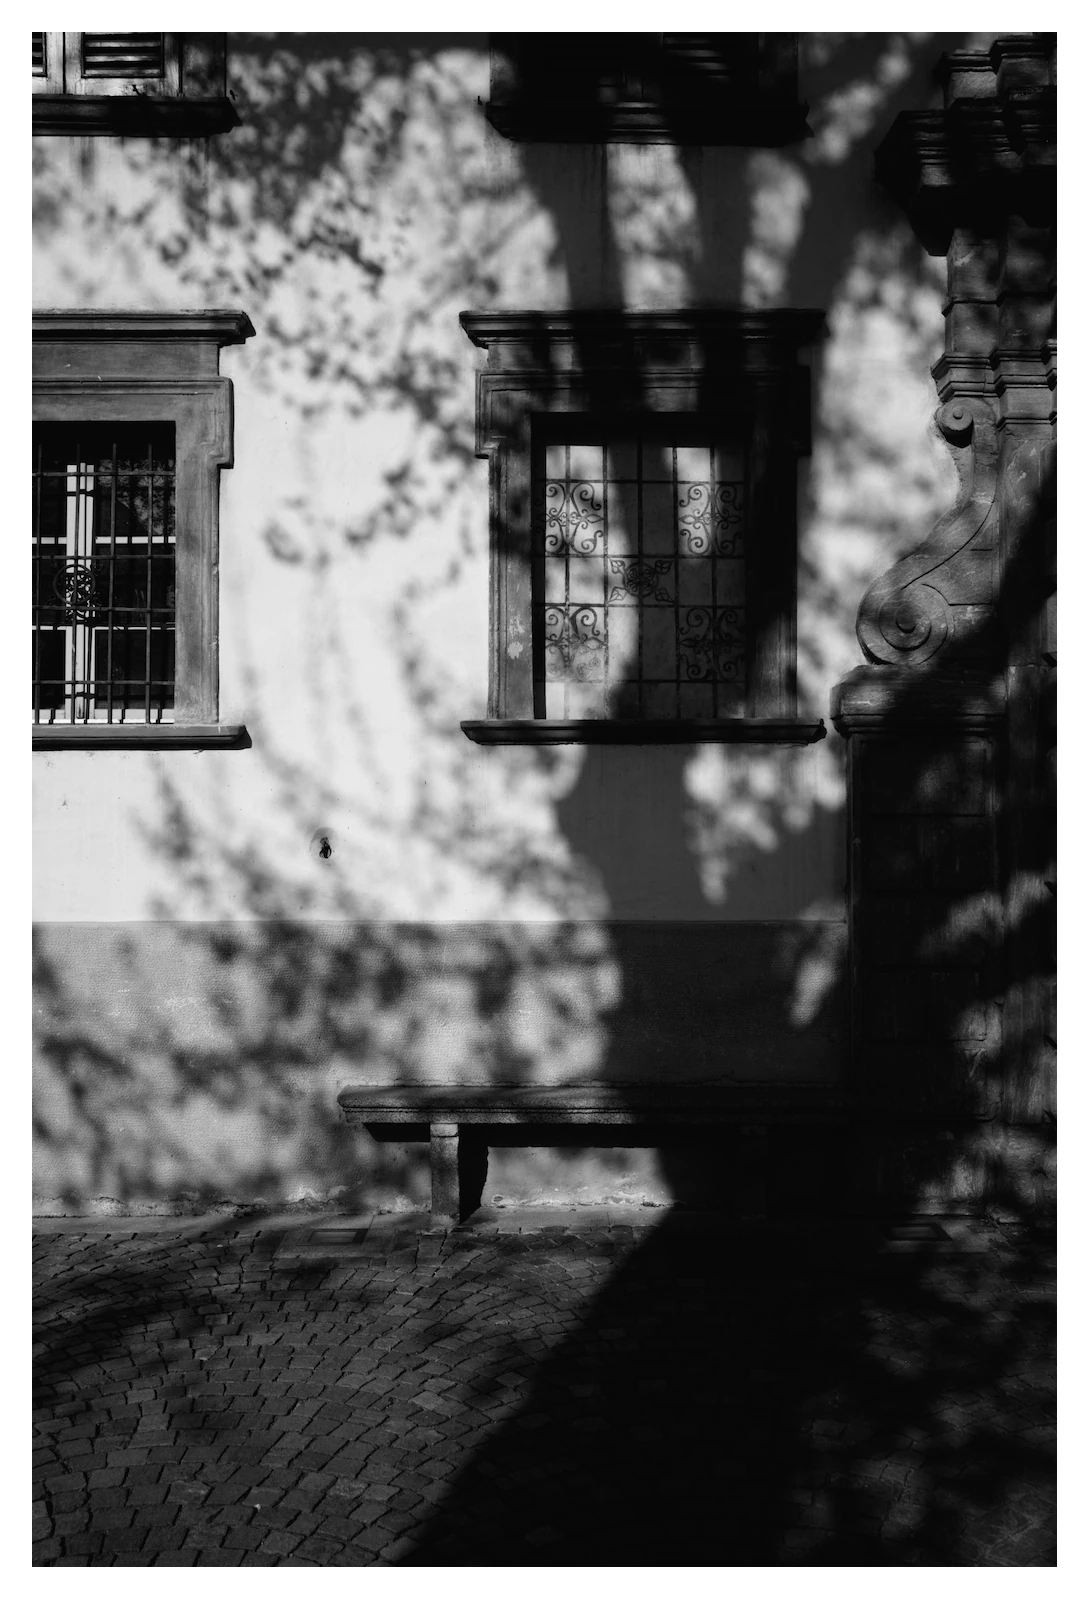
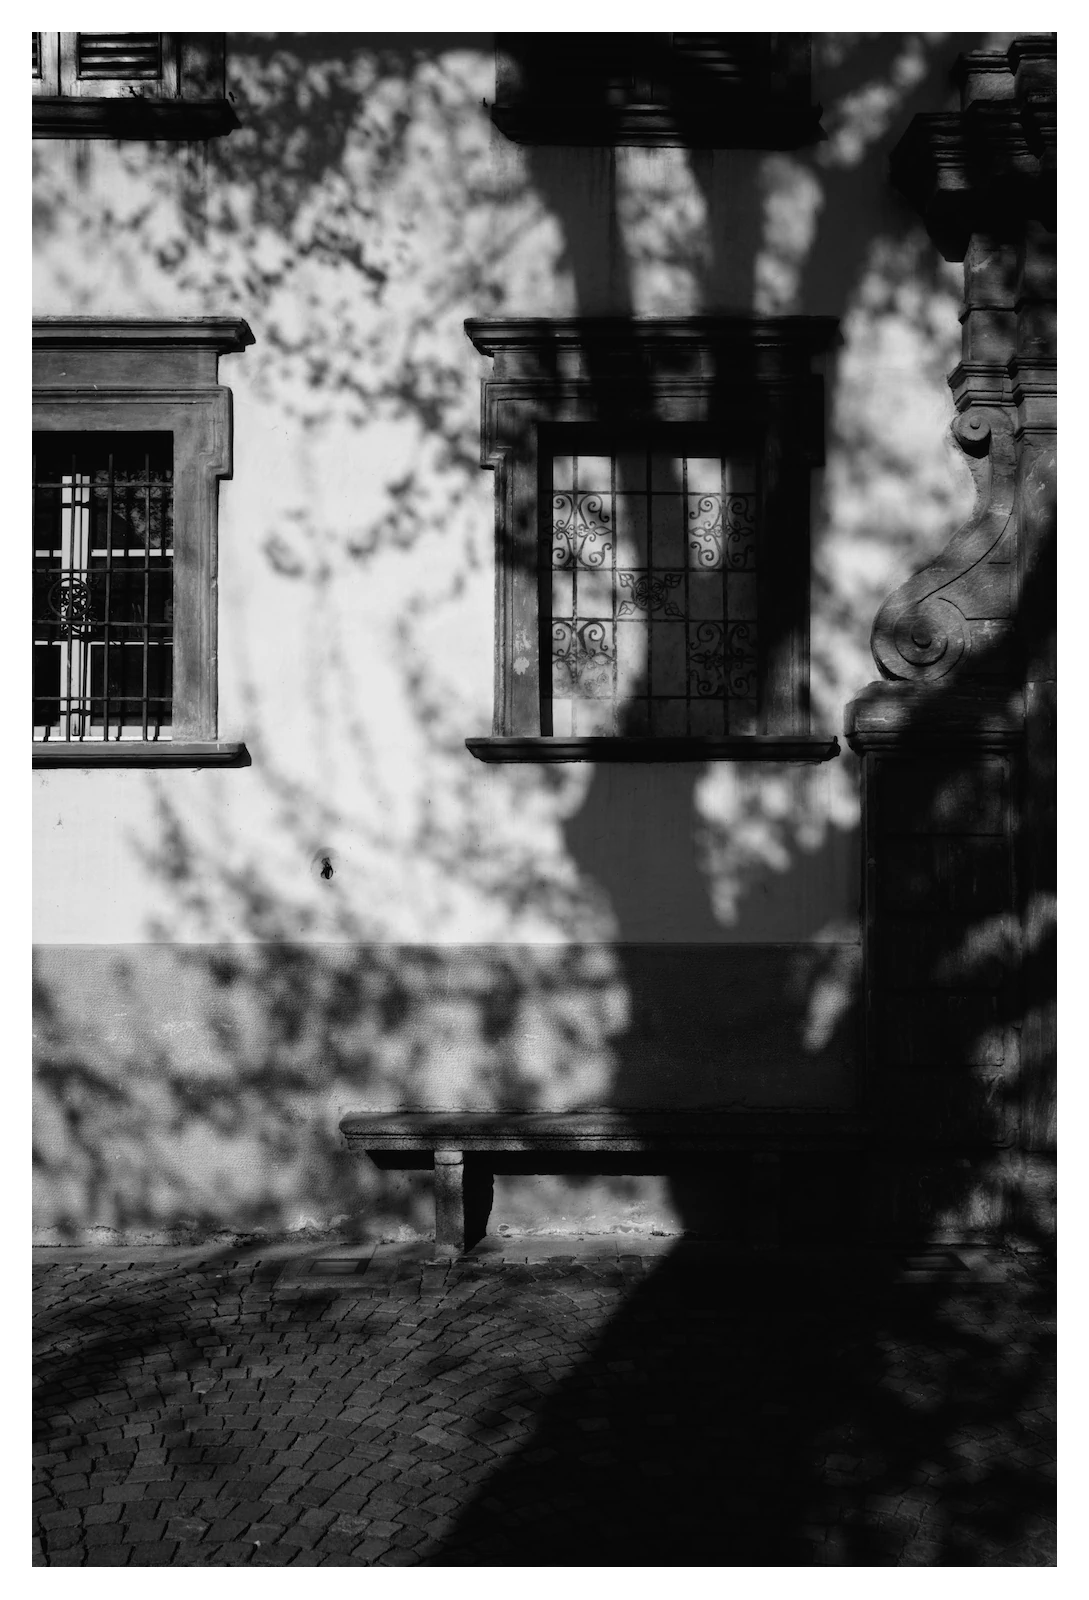
add

diff --git a/content/photographs/walls/index.md b/content/photographs/walls/index.md
@@ -1,5 +1,5 @@
 ---
-date: '2025-12-19'
+date: '2026-06-01'
 draft: false
 title: 'Walls'
 featured: false